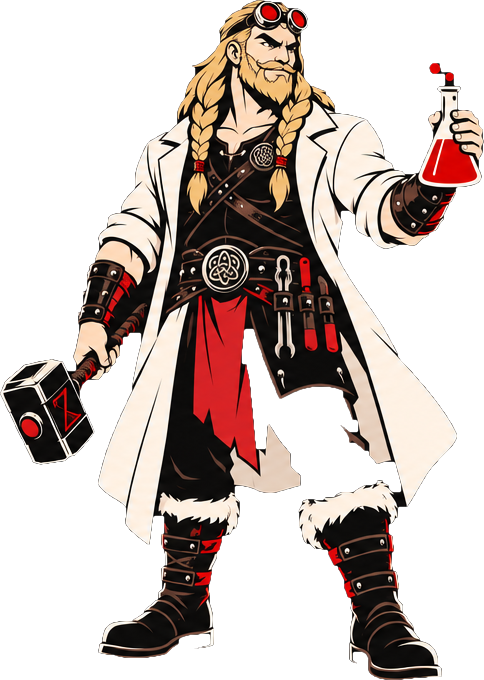
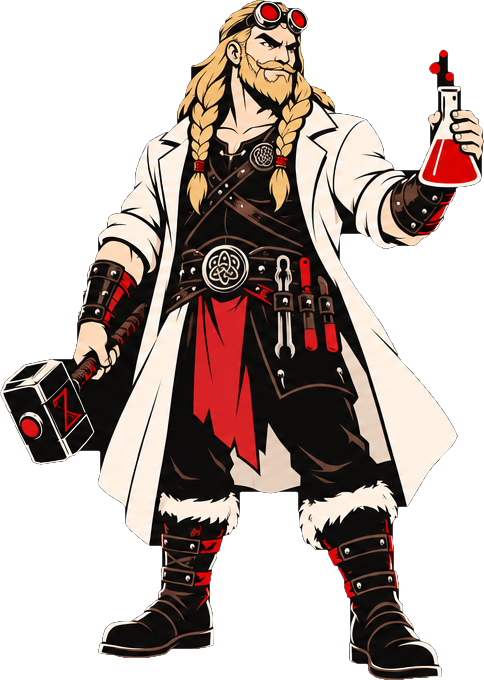
Fix transparent trousers in the mascot cutout
Part of the trousers was transparent, so the shard showed through the leg.
The dark trouser region reaches the background through the gap between the
legs, which means it is not an enclosed hole and fill_holes could never
recover it — the earlier 5px closing left the channel open.

Closing radius raised to 11, which seals that channel before hole filling.
Trouser coverage 40% to 97.5%, while the gap between the boots stays
transparent (verified both). Subject area 16.2% to 18.0% of frame.

Regenerated everything derived from the cutout: plate, bust and all
avatars carried the same defect. Scene screens return to the original
shard position, since the shard was never the problem.

Claude-Session: https://claude.ai/code/session_01VQpikmwb7K7sP9jWmUW1g1

diff --git a/brand/tools/channel.js b/brand/tools/channel.js
@@ -76,7 +76,7 @@ function panelHTML(title, w, h) {
 function sceneLeft(label, w, h) {
   const k = w / 1920;
   return `
-   <div class="shard-r"></div><div class="grain"></div>
+   <div class="shard"></div><div class="grain"></div>
    <img src="${PLATE}" style="position:absolute;left:${30*k}px;bottom:0;height:100%;
         object-fit:contain;object-position:bottom;z-index:2">
    <div class="lock" style="position:absolute;left:${880*k}px;top:40%;

diff --git a/brand/tools/cutout.py b/brand/tools/cutout.py
@@ -19,7 +19,7 @@ import numpy as np
 from PIL import Image
 from scipy import ndimage
 
-def main(src, dst, tol=28, feather=1.0):
+def main(src, dst, tol=20, feather=1.0, close=11):
     im = Image.open(src).convert('RGB')
     a = np.asarray(im).astype(np.int16)
     # background colour = most common pixel (flat ground)
@@ -30,7 +30,11 @@ def main(src, dst, tol=28, feather=1.0):
     dist = np.abs(a - bg).max(axis=2)
     solid = dist > tol
     # close gaps so antialiased outlines form a continuous boundary
-    closed = ndimage.binary_closing(solid, structure=np.ones((5, 5)), iterations=2)
+    # The closing radius matters: dark trousers connect to the background
+    # through the gap between the legs, so they are NOT an enclosed hole and
+    # fill_holes alone leaves them transparent. A radius of 11 seals that
+    # channel (trouser coverage 40% -> 98%) without closing the leg gap.
+    closed = ndimage.binary_closing(solid, structure=np.ones((close, close)), iterations=2)
     # largest connected component = the character
     lab, n = ndimage.label(closed)
     if n == 0:
@@ -52,5 +56,6 @@ def main(src, dst, tol=28, feather=1.0):
 if __name__ == '__main__':
     args = sys.argv[1:]
     main(args[0], args[1],
-         int(args[2]) if len(args) > 2 else 28,
-         float(args[3]) if len(args) > 3 else 1.0)
+         int(args[2]) if len(args) > 2 else 20,
+         float(args[3]) if len(args) > 3 else 1.0,
+         int(args[4]) if len(args) > 4 else 11)

diff --git a/brand/tools/occluder.py b/brand/tools/occluder.py
@@ -1,0 +1,38 @@
+#!/usr/bin/env python3
+"""Build a background-coloured occluder from the mascot silhouette.
+
+A diagonal drawn behind the figure stays visible in the negative space
+between the legs, which reads as the line cutting through him. This fills
+that gap with the page colour so the figure occludes the diagonal as a
+whole mass, while the outline itself is untouched.
+
+Only the lower part of the figure is row-filled, so gaps between arm and
+body higher up still show the background normally.
+
+Usage: python3 tools/occluder.py <plate.png> <out.png> [hexcolour] [start_frac]
+"""
+import sys
+import numpy as np
+from PIL import Image
+
+def main(src, dst, hexcol='#11151A', start=0.58):
+    a = np.asarray(Image.open(src))
+    al = a[:, :, 3] > 100
+    h, w = al.shape
+    occ = np.zeros_like(al)
+    y0 = int(h * start)
+    for y in range(y0, h):
+        xs = np.where(al[y])[0]
+        if len(xs):
+            occ[y, xs.min():xs.max() + 1] = True
+    rgb = tuple(int(hexcol[i:i+2], 16) for i in (1, 3, 5))
+    out = np.zeros((h, w, 4), np.uint8)
+    out[occ] = (*rgb, 255)
+    Image.fromarray(out, 'RGBA').save(dst)
+    print(f'  occluder {dst}  filled rows {y0}-{h}  {occ.sum()} px  colour {hexcol}')
+
+if __name__ == '__main__':
+    args = sys.argv[1:]
+    main(args[0], args[1],
+         args[2] if len(args) > 2 else '#11151A',
+         float(args[3]) if len(args) > 3 else 0.58)
